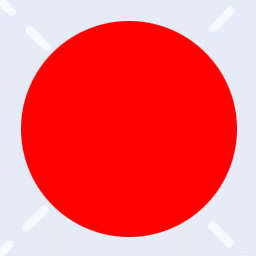
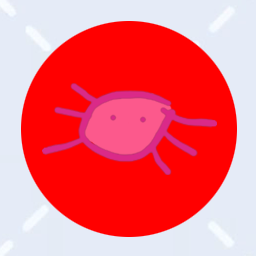
Update springs to be thin and circular. In level editor will default to be positioned to go on top of other tiles. Updated texture/

Changed region(s): [[0.1562, 0.3125, 0.8438, 0.6875]]

diff --git a/js/maps/MapGenerator.js b/js/maps/MapGenerator.js
@@ -94,7 +94,7 @@ TEXTURE_SPRING.wrapS = THREE.RepeatWrapping;
 TEXTURE_SPRING.wrapT = THREE.RepeatWrapping;
 TEXTURE_SPRING.repeat.set(1, 1);
 const SPRING_WIDTH = 50;
-const SPRING_HEIGHT = 20;
+const SPRING_HEIGHT = 2;
 const SPRING_DEPTH = 50;
 
 
@@ -359,7 +359,7 @@ class MapGenerator {
                 newTile = this.createTunnelWithPhysics("HalfPipe" + i, 0, this.pos, this.quat, this.scale, material, Math.PI);
             } else if (tileType.indexOf("Spring") >= 0) {
                 let material = new THREE.MeshPhongMaterial({ color: materialHex, map: TEXTURE_SPRING, shininess: tileShininess, specular: 0xd4aae7, transparent: tileTransparent, opacity: tileOpacity });
-                newTile = this.createTileWithPhysics("Spring" + i, SPRING_WIDTH, SPRING_HEIGHT, SPRING_DEPTH, 0, this.pos, this.quat, this.scale, material);
+                newTile = this.createSpringWithPhysics("Spring" + i, SPRING_WIDTH, SPRING_HEIGHT, SPRING_DEPTH, 0, this.pos, this.quat, this.scale, material);
             }
             if (newTile) {
                 newTile.scale.x = this.scale.x;
@@ -535,6 +535,24 @@ class MapGenerator {
         return object;
 
     }
+    createSpringWithPhysics(name, sx, sy, sz, mass, pos, quat, scale, material) {
+        const SPRING_HEIGHT_SEGMENTS = 1;
+        const SPRING_RADIAL_SEGMENTS = 32;
+        const geometry = new THREE.CylinderGeometry(SPRING_WIDTH * 0.5, SPRING_DEPTH * 0.5, SPRING_HEIGHT, SPRING_RADIAL_SEGMENTS, SPRING_HEIGHT_SEGMENTS);
+
+        const object = new THREE.Mesh(geometry, material);
+
+        const shape = new Ammo.btCylinderShape(new Ammo.btVector3(sx * 0.5 * scale.x, sy * 0.5 * scale.y, sz * 0.5 * scale.z));
+
+        object.scale.set(scale.x, scale.y, scale.z);
+        object.name = name;
+        object.receiveShadow = true;
+        object.castShadow = false;
+        object.body = this.createRigidBody(object, shape, mass, pos, quat, scale);
+
+        return object;
+    }
+
     createDeathWithPhysics(name, sx, sy, sz, mass, pos, quat, scale, material) {
         const object = new THREE.Mesh(new THREE.BoxGeometry(sx, sy, sz), material);
         object.scale.set(scale.x, scale.y, scale.z);
@@ -770,11 +788,14 @@ class MapGenerator {
     moveGhostTile(player, rotation, tileScale, tileSelection, tileSnapDistanceX, tileSnapDistanceY, tileSnapDistanceZ) {
         let playerPos = player.position;
         let rotationSnap = 0.1;
-        
+        let yOffset = playerRadius * 3;
+        if (tileSelection == 9) {
+            yOffset -= 10;
+        }
         if (this.snapPosition) {
-            this.pos.set(Math.round(playerPos.x / tileSnapDistanceX) * tileSnapDistanceX, Math.round((playerPos.y - playerRadius * 3) / tileSnapDistanceY) * tileSnapDistanceY, Math.round(playerPos.z / tileSnapDistanceZ) * tileSnapDistanceZ);
+            this.pos.set(Math.round(playerPos.x / tileSnapDistanceX) * tileSnapDistanceX, Math.round((playerPos.y - yOffset) / tileSnapDistanceY) * tileSnapDistanceY, Math.round(playerPos.z / tileSnapDistanceZ) * tileSnapDistanceZ);
         } else {
-            this.pos.set(playerPos.x, playerPos.y - playerRadius * 3, playerPos.z);
+            this.pos.set(playerPos.x, playerPos.y - yOffset, playerPos.z);
         }
         if (this.snapRotation) {
             this.quat.set(Math.round(rotation.x / rotationSnap) * rotationSnap, Math.round(rotation.y / rotationSnap) * rotationSnap, Math.round(rotation.z / rotationSnap) * rotationSnap, Math.round(rotation.w / rotationSnap) * rotationSnap);
@@ -934,7 +955,7 @@ class MapGenerator {
                 material = tileMaterial;
             }
             let actualTileName = this.getOrDefault(tileName, "Spring" + this.allObjects.length);
-            return this.createTileWithPhysics(actualTileName, SPRING_WIDTH, SPRING_HEIGHT, SPRING_DEPTH, 0, this.pos, this.quat, this.scale, material);
+            return this.createSpringWithPhysics(actualTileName, SPRING_WIDTH, SPRING_HEIGHT, SPRING_DEPTH, 0, this.pos, this.quat, this.scale, material);
         }
 
         return null;

diff --git a/js/amiyaroads.js b/js/amiyaroads.js
@@ -9,7 +9,7 @@ import Stats from './jsm/libs/stats.module.js';
 import { LanguageToggle } from './utils/LanguageToggle.js';
 import { Vector3 } from 'three';
 
-const versionString = "PRE-ALPHA Build 0.3.32 \"Cat-Crab-Chotter\"";
+const versionString = "PRE-ALPHA Build 0.3.33 \"Cat-Crab-Chotter\"";
 
 let stats;
 
@@ -941,26 +941,25 @@ function setupContactResultCallback() {
 			}
 
 		} else if (tag.indexOf("Spring") >= 0) {
-			if (localPos.y() >= 9.99) {
-				maxSpeed = boostMaxSpeed;
-				let quat = colWrapper1.getCollisionObject().getWorldTransform().getRotation().normalized();
-				const quaternion = new THREE.Quaternion(quat.x(), quat.y(), quat.z(), quat.w());
+			maxSpeed = boostMaxSpeed;
+			let quat = colWrapper1.getCollisionObject().getWorldTransform().getRotation().normalized();
+			const quaternion = new THREE.Quaternion(quat.x(), quat.y(), quat.z(), quat.w());
 
-				//default direction is straight up
-				const direction = new THREE.Vector3(0, 1, 0);
-				direction.applyQuaternion(quaternion);
+			//default direction is straight up
+			const direction = new THREE.Vector3(0, 1, 0);
+			direction.applyQuaternion(quaternion);
 
-				const b = new THREE.Vector3();
+			const b = new THREE.Vector3();
 
-				//always accelerate when on a boost tile
-				let boostImpulse = new Ammo.btVector3(direction.x, direction.y, direction.z);
-				boostImpulse.normalize();
-				boostImpulse.op_mul(SPRING_BOOST * rb1.scale.z);
-				//player.body.applyCentralImpulse(boostImpulse);
-				player.body.setLinearVelocity(boostImpulse);
-				timeLastOnGround = clock.elapsedTime;
-				onGround = true;
-			}
+			//always accelerate when on a boost tile
+			let boostImpulse = new Ammo.btVector3(direction.x, direction.y, direction.z);
+			boostImpulse.normalize();
+			boostImpulse.op_mul(SPRING_BOOST * rb1.scale.z);
+			//player.body.applyCentralImpulse(boostImpulse);
+			player.body.setLinearVelocity(boostImpulse);
+			timeLastOnGround = clock.elapsedTime;
+			onGround = true;
+			
 
 		} else if (tag.indexOf("AmiyaBar") >= 0) {
 			stamina = maxStamina;
@@ -1049,7 +1048,6 @@ function initInput() {
 					mapGenerator.toggleSnapPosition();
 					mapGenerator.toggleSnapRotation();
 				}
-				console.log(event.code);
 
 				if (keyStates.Equal && event.code == "Equal") {
 					tileScale = Math.min(tileScale + 0.25, maxTileScale);
